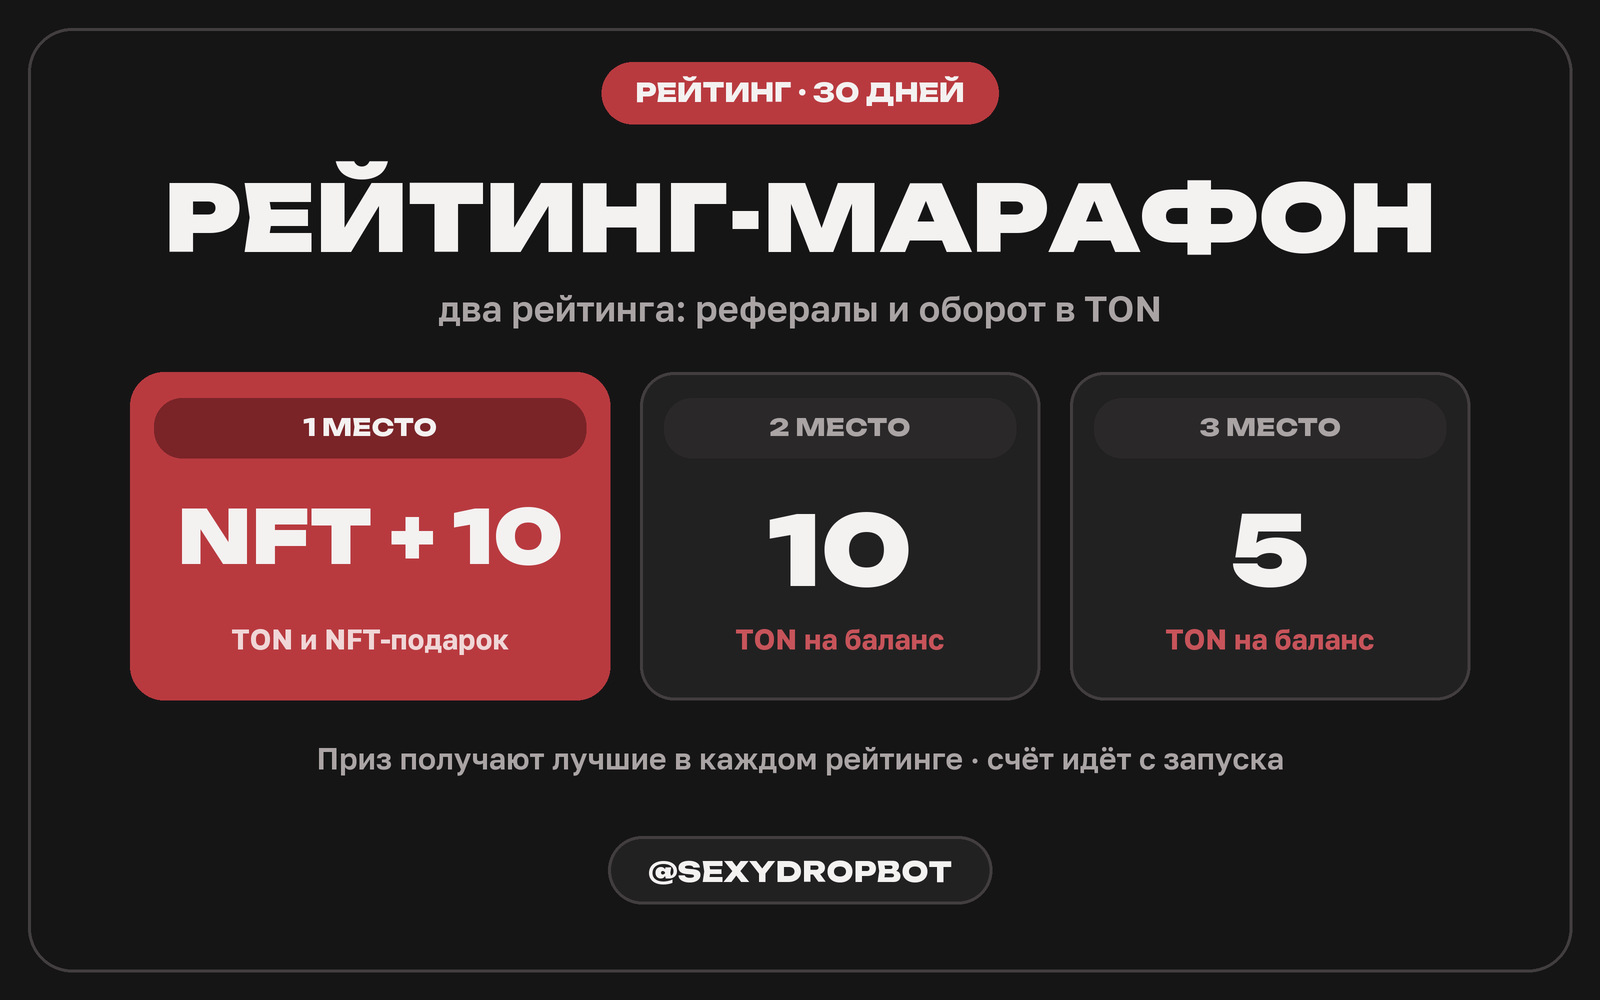
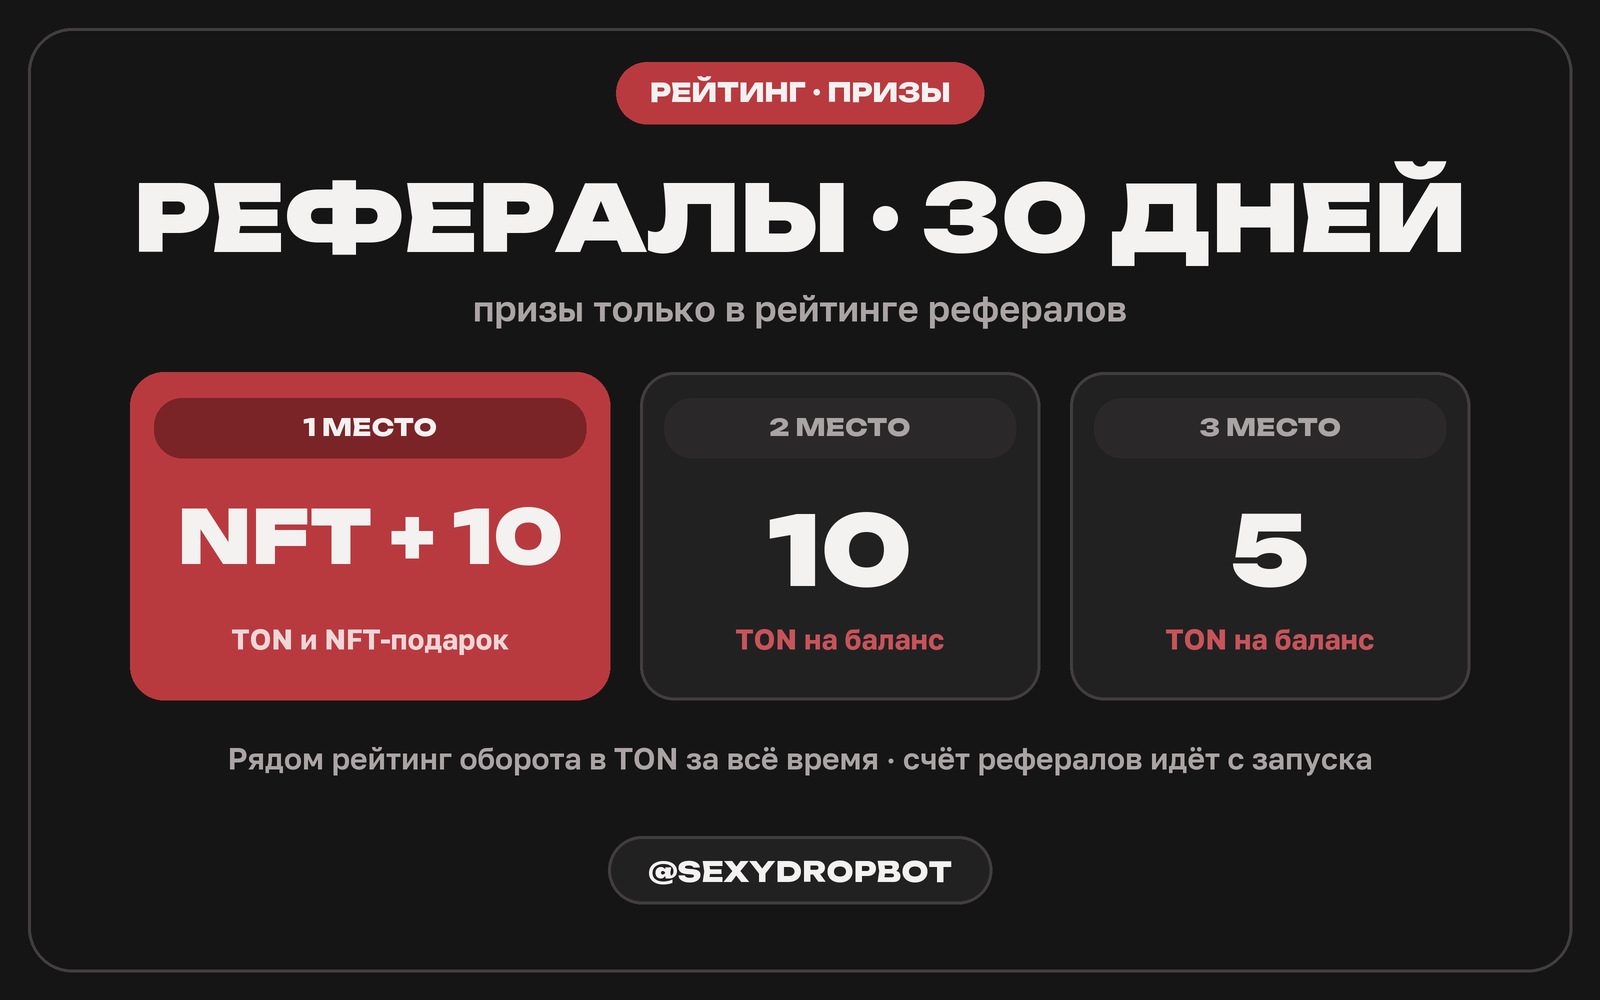
fix(rating): prizes and timer only for the referrals board, turnover board is the all-time table; post text and image updated; admin commands /novoe /obnova /druzya /reiting /rabotaet

Changed region(s): [[0.0625, 0.155, 0.9375, 0.341], [0.125, 0.744, 0.875, 0.775], [0.375, 0.062, 0.625, 0.124]]

diff --git a/src/screens/RatingScreen.tsx b/src/screens/RatingScreen.tsx
@@ -114,7 +114,16 @@ export function RatingScreen() {
     <div className={styles.screen}>
       <h1 className={styles.title}>Рейтинг</h1>
 
-      <section className={styles.hero} aria-label="Марафон">
+      <div className={styles.segment} role="tablist" aria-label="Выбор рейтинга">
+        {BOARDS.map((b) => (
+          <button key={b.id} type="button" role="tab" aria-selected={board === b.id} className={cx(styles.segBtn, board === b.id && styles.segBtnOn)} onClick={() => setBoard(b.id)}>
+            {b.label}
+          </button>
+        ))}
+      </div>
+
+      {board === 'refs' && (
+        <section className={styles.hero} aria-label="Марафон">
         <div className={styles.heroHead}>
           <h2 className={styles.heroTitle}>Марафон {state?.season.days ?? 30} дней</h2>
           <span className={styles.timer}>до конца: {state ? countdown(endsIn) : '…'}</span>
@@ -130,22 +139,15 @@ export function RatingScreen() {
             </li>
           ))}
         </ul>
-        <p className={styles.heroNote}>Призы получают лучшие в каждом рейтинге.</p>
+        <p className={styles.heroNote}>Призы получают лучшие в рейтинге рефералов.</p>
       </section>
-
-      <div className={styles.segment} role="tablist" aria-label="Выбор рейтинга">
-        {BOARDS.map((b) => (
-          <button key={b.id} type="button" role="tab" aria-selected={board === b.id} className={cx(styles.segBtn, board === b.id && styles.segBtnOn)} onClick={() => setBoard(b.id)}>
-            {b.label}
-          </button>
-        ))}
-      </div>
+      )}
 
       <section className={styles.invite} aria-label="Приглашение">
         <p className={styles.inviteText}>
           {board === 'refs'
             ? 'В зачёт идёт друг, который зашёл по вашей ссылке и открыл бесплатный кейс.'
-            : 'В зачёт идёт сумма всех ваших ставок в играх и кейсах.'}
+            : 'Оборот: сумма всех ваших ставок в играх и кейсах за всё время. Призов в этом рейтинге нет.'}
         </p>
         <button type="button" className={styles.inviteBtn} onClick={invite}>
           Пригласить друга
@@ -201,10 +203,10 @@ export function RatingScreen() {
         </button>
         {rulesOpen && (
           <ol className={styles.rulesList}>
-            <li>Марафон длится 30 дней. Счёт начался с запуска рейтинга и идёт без пауз, после конца стартует новый.</li>
+            <li>Марафон рефералов длится 30 дней. Счёт начался с запуска рейтинга и идёт без пауз, после конца стартует новый.</li>
             <li>«Рефералы»: друг засчитывается, если зашёл по вашей ссылке во время марафона и открыл бесплатный кейс.</li>
-            <li>«Оборот»: сумма всех ваших ставок в играх и кейсах за марафон, в TON.</li>
-            <li>Награда в каждом рейтинге: 1 место — NFT + 10 TON, 2 место — 10 TON, 3 место — 5 TON.</li>
+            <li>«Оборот»: сумма всех ваших ставок в играх и кейсах за всё время, в TON. Это обычная таблица без призов и без сезона.</li>
+            <li>Награда только в рейтинге рефералов: 1 место — NFT + 10 TON, 2 место — 10 TON, 3 место — 5 TON.</li>
             <li>TON приходят на баланс после конца марафона, NFT выдаёт администратор вручную.</li>
             <li>Накрутка и администраторы в рейтинге не учитываются. Итоги подводит сервер.</li>
           </ol>

diff --git a/src/screens/RatingScreen.test.tsx b/src/screens/RatingScreen.test.tsx
@@ -34,6 +34,7 @@ describe('RatingScreen: марафон 30 дней', () => {
     expect(screen.getByRole('heading', { name: 'Рейтинг' })).toBeInTheDocument()
     expect(await screen.findByText('NFT + 10 TON')).toBeInTheDocument()
     expect(screen.getByText('5 TON')).toBeInTheDocument()
+    expect(screen.getByText(/до конца:/)).toBeInTheDocument()
     const list = screen.getByRole('list', { name: 'Рейтинг игроков' })
     expect(await within(list).findByText('Иван Петров')).toBeInTheDocument()
     expect(screen.getByRole('button', { name: 'Пригласить друга' })).toBeInTheDocument()
@@ -44,6 +45,8 @@ describe('RatingScreen: марафон 30 дней', () => {
     await screen.findByText('Иван Петров')
     await userEvent.click(screen.getByRole('tab', { name: 'Оборот, TON' }))
     const list = screen.getByRole('list', { name: 'Рейтинг игроков' })
+    expect(screen.queryByText('NFT + 10 TON')).not.toBeInTheDocument() // призы и таймер — только у рефералов
+    expect(screen.queryByText(/до конца:/)).not.toBeInTheDocument()
     expect(within(list).getByText('12.4K')).toBeInTheDocument()
     expect(within(list).getByText('800.0')).toBeInTheDocument()
     expect(within(screen.getByLabelText('Ваше место')).getByText('2')).toBeInTheDocument()
@@ -51,9 +54,9 @@ describe('RatingScreen: марафон 30 дней', () => {
 
   it('правила скрыты и раскрываются по нажатию', async () => {
     render(<RatingScreen />)
-    expect(screen.queryByText(/Марафон длится 30 дней/)).not.toBeInTheDocument()
+    expect(screen.queryByText(/Марафон рефералов длится 30 дней/)).not.toBeInTheDocument()
     await userEvent.click(screen.getByRole('button', { name: /Правила/ }))
-    expect(screen.getByText(/Марафон длится 30 дней/)).toBeInTheDocument()
+    expect(screen.getByText(/Марафон рефералов длится 30 дней/)).toBeInTheDocument()
   })
 })
 

diff --git a/backend/app/services/rating.py b/backend/app/services/rating.py
@@ -1,8 +1,10 @@
-"""Рейтинг-марафон на 30 дней: два топа — «Рефералы» (друзья, открывшие бесплатный кейс) и «Оборот в TON».
+"""Рейтинг: два топа — «Рефералы» (марафон 30 дней с призами) и «Оборот в TON» (прежняя таблица за всё время, без призов).
 
-- Счёт начинается с момента, когда рейтинг впервые запросили на сервере (дальше сезоны идут подряд по 30 дней).
-- В топ считаются только события внутри сезона; админы в рейтинге не участвуют.
-- Награда за каждый топ: 1 место — NFT + 10 TON, 2 место — 10 TON, 3 место — 5 TON. TON начисляет админ кнопкой (повтор безопасен), NFT выдаётся вручную.
+- «Рефералы»: друзья, открывшие бесплатный кейс; счёт начинается с момента, когда рейтинг впервые запросили на сервере
+  (дальше сезоны идут подряд по 30 дней). Награда: 1 место — NFT + 10 TON, 2 место — 10 TON, 3 место — 5 TON.
+  TON начисляет админ кнопкой (повтор безопасен), NFT выдаётся вручную.
+- «Оборот»: сумма всех ставок игрока за всё время (как раньше), без призов и без сезона.
+- Админы в рейтинге не участвуют.
 Начало сезона хранится в app_settings (ключ rating_season), поэтому одинаково для всех экземпляров сервера.
 """
 
@@ -122,7 +124,11 @@ async def state(session: AsyncSession, user: User) -> dict[str, Any]:
     start = await season_start(session)
     idx = index_at(start)
     s, e = window(start, idx)
-    boards = {b: _board_view(await standings(session, b, s, e), user.id) for b in BOARDS}
+    ALL_FROM, ALL_TO = datetime(2000, 1, 1, tzinfo=timezone.utc), datetime(2200, 1, 1, tzinfo=timezone.utc)
+    boards = {
+        "refs": _board_view(await standings(session, "refs", s, e), user.id),
+        "turnover": _board_view(await standings(session, "turnover", ALL_FROM, ALL_TO), user.id),  # за всё время
+    }
     return {
         "season": {"index": idx, "starts_at": int(s.timestamp()), "ends_at": int(e.timestamp()), "days": SEASON_DAYS},
         "prizes": PRIZES,
@@ -136,13 +142,13 @@ async def last_finished_index(session: AsyncSession) -> int | None:
 
 
 async def pay_season(session: AsyncSession, index: int) -> list[dict[str, Any]]:
-    """Начисляет TON призёрам обоих топов завершённого сезона (один раз на место и топ: идемпотентно по ключу проводки)."""
+    """Начисляет TON призёрам рейтинга рефералов за завершённый сезон (один раз на место: идемпотентно по ключу проводки)."""
     from app.services.economy_core import post_ledger
 
     start = await season_start(session)
     s, e = window(start, index)
     paid: list[dict[str, Any]] = []
-    for board in BOARDS:
+    for board in ("refs",):
         rows = (await standings(session, board, s, e))[: len(PRIZES)]
         for prize, row in zip(PRIZES, rows):
             await post_ledger(

diff --git a/backend/app/services/ref_share.py b/backend/app/services/ref_share.py
@@ -798,7 +798,7 @@ async def send_invite_clicks_to_admins_once(delay_s: float = 130.0) -> None:
 
 # ---------------------------------------------------------------- пост «рейтинг-марафон»
 
-RATING_VERSION = "2026-11-14-rating-v1"
+RATING_VERSION = "2026-11-15-rating-v2"
 
 
 def rating_caption(premium: bool = True) -> str:
@@ -809,14 +809,13 @@ def rating_caption(premium: bool = True) -> str:
         return em(name, premium)
 
     return (
-        f"{e('trophy')} <b>Рейтинг-марафон на 30 дней!</b>\n\n"
-        f"{e('spark')} Два рейтинга на выбор:\n"
-        f"{e('friends')} <b>Рефералы</b>: друзья, которые зашли по твоей ссылке и открыли бесплатный кейс\n"
-        f"{e('ton')} <b>Оборот в TON</b>: сумма всех твоих ставок\n\n"
+        f"{e('trophy')} <b>Рейтинг-марафон рефералов на 30 дней!</b>\n\n"
+        f"{e('friends')} Приглашай друзей: считаются те, кто зашёл по твоей ссылке и открыл бесплатный кейс\n\n"
         f"{e('nft')} <b>1 место</b>: NFT + 10 TON\n"
         f"{e('dot')} <b>2 место</b>: 10 TON\n"
         f"{e('dot')} <b>3 место</b>: 5 TON\n\n"
-        f"{e('check')} Счёт идёт с запуска, топ-30 виден всем\n"
+        f"{e('ton')} Рядом рейтинг оборота в TON: таблица за всё время, без призов\n"
+        f"{e('check')} Счёт рефералов идёт с запуска, топ-30 виден всем\n"
         f"{e('bolt')} @sexydropbot, вкладка «Рейтинг»"
     )
 

diff --git a/backend/app/services/telegram_bot.py b/backend/app/services/telegram_bot.py
@@ -365,7 +365,7 @@ async def _admin_command(message: dict[str, Any], chat_id: int) -> bool:
     """Команды админа в личке бота. /gifs — прислать все реферальные гифки."""
     text = str(message.get("text") or "").strip()
     command = text.split()[0].split("@")[0].lower() if text.startswith("/") else ""
-    if command not in ("/gifs", "/post", "/rassylka", "/rassylka_vsem", "/opros"):
+    if command not in ("/gifs", "/post", "/rassylka", "/rassylka_vsem", "/opros", "/klikalka", "/novoe", "/obnova", "/druzya", "/reiting", "/rabotaet"):
         return False
     from app.api.odds import ADMIN_USERNAMES
     from app.services import ref_share
@@ -380,6 +380,20 @@ async def _admin_command(message: dict[str, Any], chat_id: int) -> bool:
         return True
     if command == "/klikalka":
         await ref_share.send_clicker_launch(chat_id)
+        return True
+    # готовые посты по запросу админа (то же, что приходит само после выката): картинка + текст, переслать в канал
+    posts = {
+        "/obnova": ref_share.send_update_post,
+        "/druzya": ref_share.send_invite_clicks_post,
+        "/reiting": ref_share.send_rating_post,
+        "/rabotaet": ref_share.send_back_online,
+    }
+    if command in posts:
+        await posts[command](chat_id)
+        return True
+    if command == "/novoe":
+        for send in posts.values():
+            await send(chat_id)
         return True
     if command == "/post":
         await ref_share.send_task_post(chat_id, int(sender.get("id") or chat_id))

diff --git a/backend/app/api/admin.py b/backend/app/api/admin.py
@@ -217,7 +217,7 @@ async def rating_pay_season(
     _admin_name: Annotated[str, Depends(verify_admin)],
     season: Optional[int] = None,
 ) -> dict:
-    """Начислить TON призёрам завершённого сезона рейтинга (оба топа, повтор безопасен). NFT первому месту — выдать вручную."""
+    """Начислить TON призёрам завершённого сезона рейтинга рефералов (повтор безопасен). NFT первому месту — выдать вручную."""
     from app.services import rating
 
     target = season if season is not None else await rating.last_finished_index(session)
